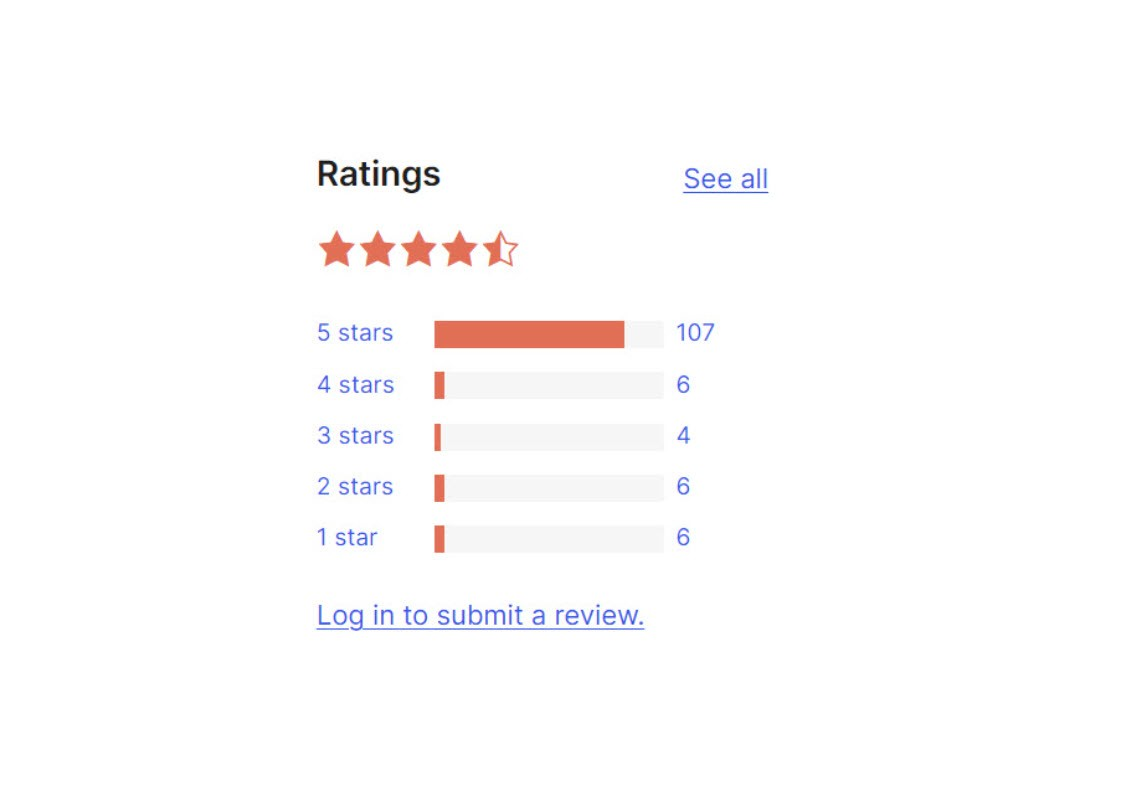
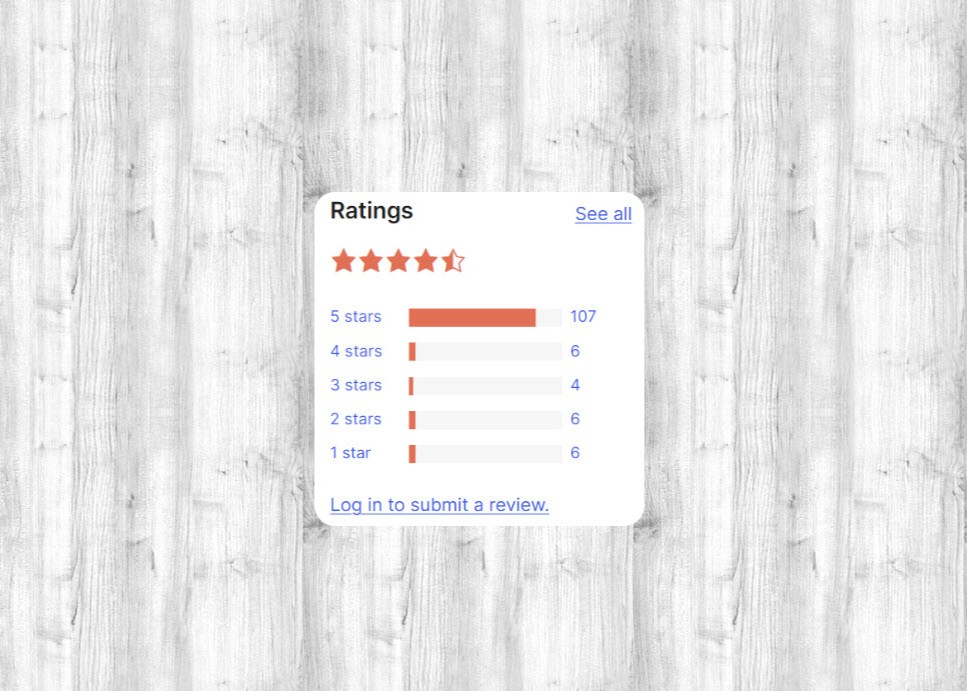
updated favorites

diff --git a/shows/44-favorites/style.css b/shows/44-favorites/style.css
@@ -9,4 +9,8 @@ body {
   justify-content: center;
   height: 100vh;
   overflow: hidden;
+  background: url("./purty-wood.png");
+}
+img {
+  border-radius: 25px;
 }
